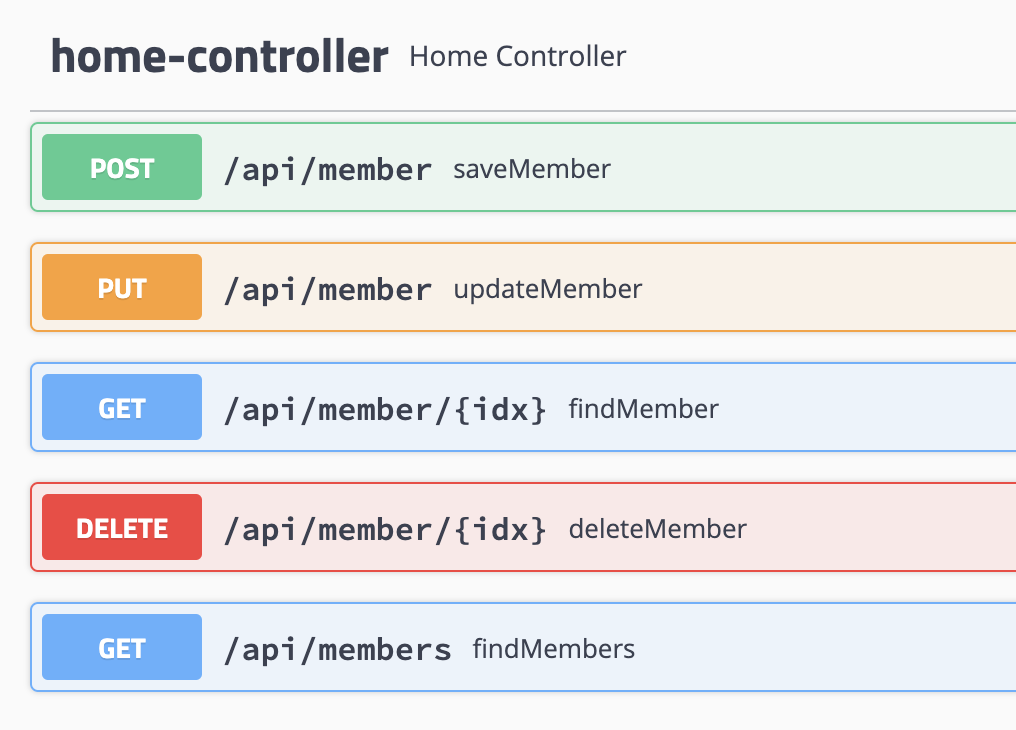
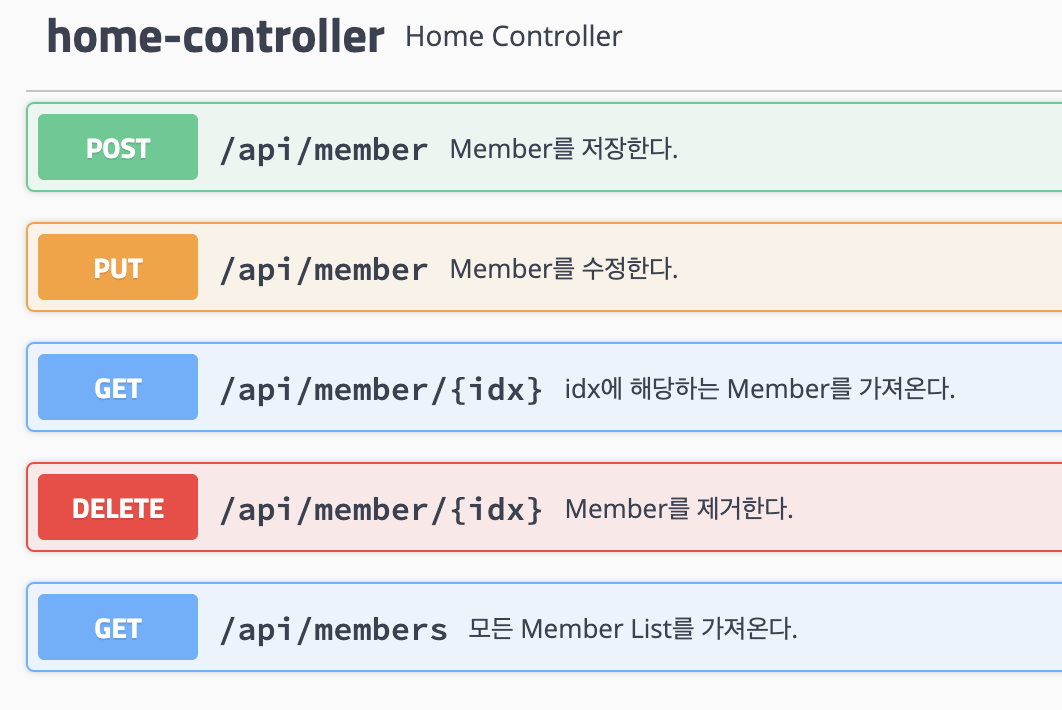
API 설명 추가

Changed region(s): [[0.0, 0.031, 1.0, 0.4648], [0.0, 0.6507, 1.0, 0.9606], [0.0, 0.4958, 1.0, 0.6197]]

diff --git a/src/main/java/com/zzapzzip/swagger/controller/HomeController.java b/src/main/java/com/zzapzzip/swagger/controller/HomeController.java
@@ -2,6 +2,9 @@ package com.zzapzzip.swagger.controller;
 
 import com.zzapzzip.swagger.model.Member;
 import com.zzapzzip.swagger.repository.MemberRepository;
+import io.swagger.annotations.ApiImplicitParam;
+import io.swagger.annotations.ApiImplicitParams;
+import io.swagger.annotations.ApiOperation;
 import lombok.AllArgsConstructor;
 import org.springframework.web.bind.annotation.*;
 
@@ -15,26 +18,37 @@ public class HomeController {
 
     MemberRepository memberRepository;
 
+    @ApiOperation("모든 Member List를 가져온다.")
     @GetMapping("/members")
     public List<Member> findMembers() {
         return memberRepository.findAll();
     }
 
+    @ApiOperation("idx에 해당하는 Member를 가져온다.")
+    @ApiImplicitParams({
+            @ApiImplicitParam(name = "idx", value = "회원 index", dataType = "integer", required = true)
+    })
     @GetMapping("/member/{idx}")
     public Member findMember(@PathVariable Long idx) {
         return memberRepository.findById(idx).get();
     }
 
+    @ApiOperation("Member를 저장한다.")
     @PostMapping("/member")
     public Member saveMember(@RequestBody Member member){
         return memberRepository.save(member);
     }
 
+    @ApiOperation("Member를 수정한다.")
     @PutMapping("/member")
     public Member updateMember(@RequestBody Member member) {
         return memberRepository.save(member);
     }
 
+    @ApiOperation("Member를 제거한다.")
+    @ApiImplicitParams({
+            @ApiImplicitParam(name = "idx", value = "회원 index", dataType = "integer", required = true)
+    })
     @DeleteMapping("/member/{idx}")
     public String deleteMember(@PathVariable Long idx) {
         memberRepository.deleteById(idx);

diff --git a/src/main/java/com/zzapzzip/swagger/model/Member.java b/src/main/java/com/zzapzzip/swagger/model/Member.java
@@ -1,11 +1,15 @@
 package com.zzapzzip.swagger.model;
 
+import io.swagger.annotations.ApiModel;
+import io.swagger.annotations.ApiModelProperty;
+import io.swagger.annotations.ApiOperation;
 import lombok.Builder;
 import lombok.Getter;
 import lombok.NoArgsConstructor;
 
 import javax.persistence.*;
 
+@ApiModel("회원")
 @NoArgsConstructor
 @Getter
 @Entity
@@ -13,13 +17,16 @@ import javax.persistence.*;
 public class Member {
 
     @Id
-    @GeneratedValue
+    @GeneratedValue(strategy = GenerationType.IDENTITY)
+    @ApiModelProperty(value = "Member의 Id")
     private Long id;
 
     @Column
+    @ApiModelProperty(value = "이름", required = true)
     private String firstName;
 
     @Column
+    @ApiModelProperty(value = "성", required = true)
     private String lastName;
 
     @Builder

diff --git a/README.md b/README.md
@@ -1,2 +1,12 @@
 # swagger-example
+### Main
+Controller단에서, @ApiOperation을 사용하여 API 설명을 적음
 ![Image01](./images/image01.png)
+
+### Model
+Model단에서, @ApiModel, @ApiModelProperty를 사용하여 Parameter 설명을 적음
+![Image02](./images/image02.png)
+
+### Parameter
+Controller단에서, @ApiImplicitParams를 사용하여 GET 방식으로 가져온 Parameter 설명을 적음
+![Image03](./images/image03.png)
